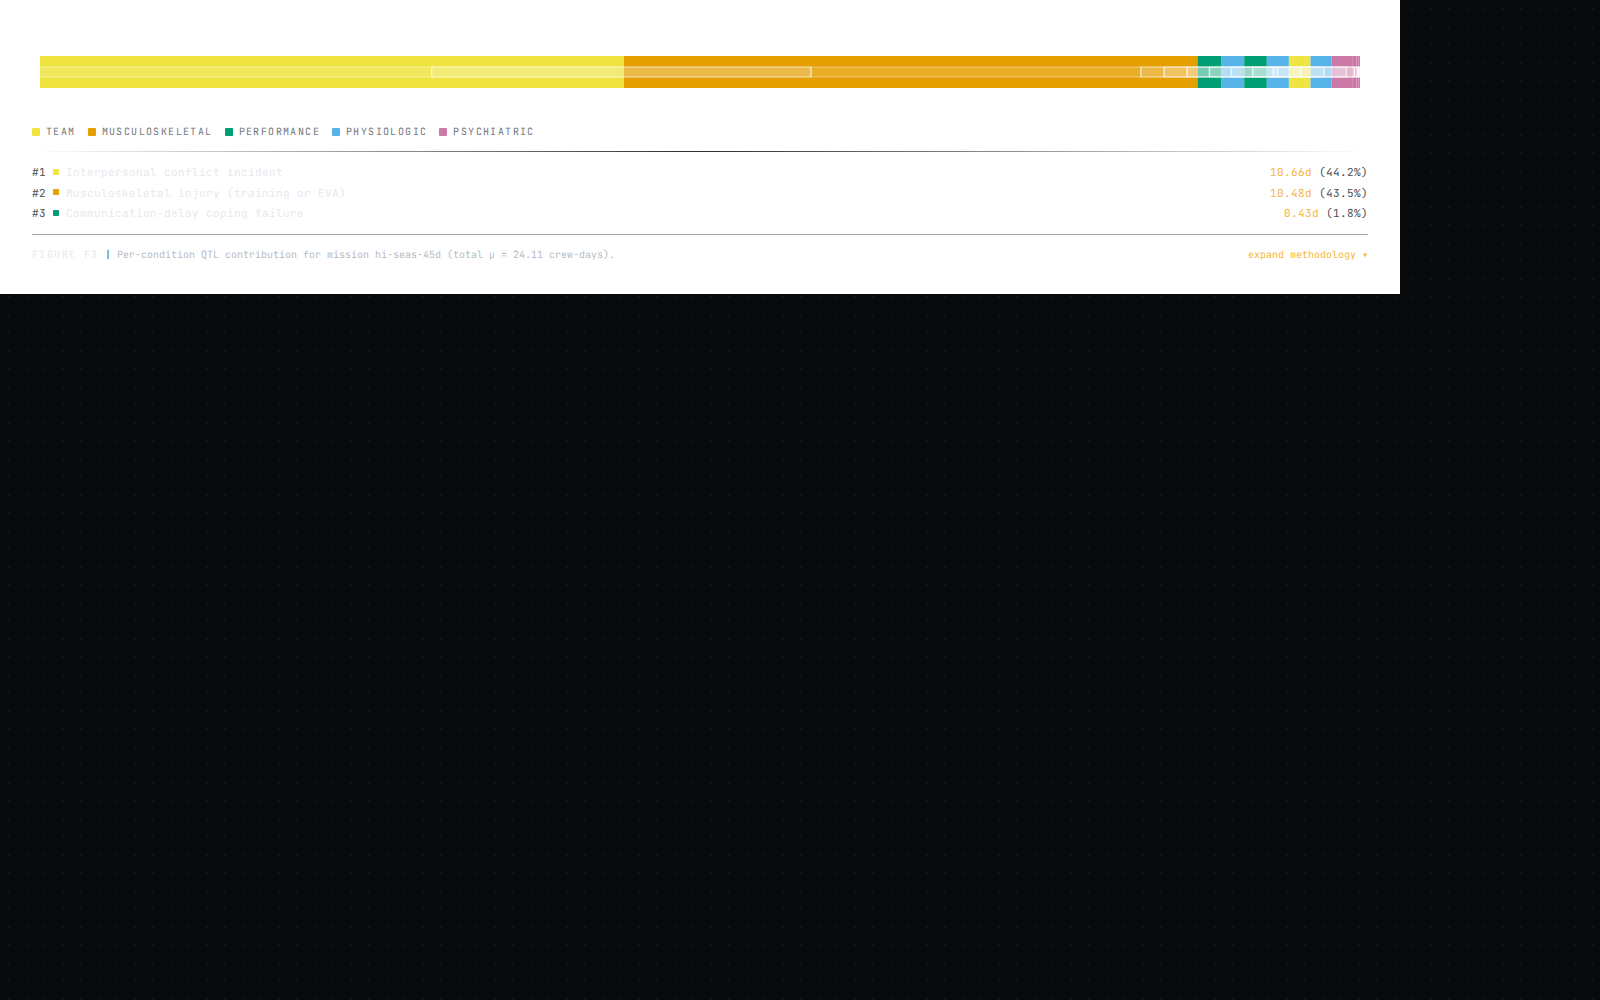
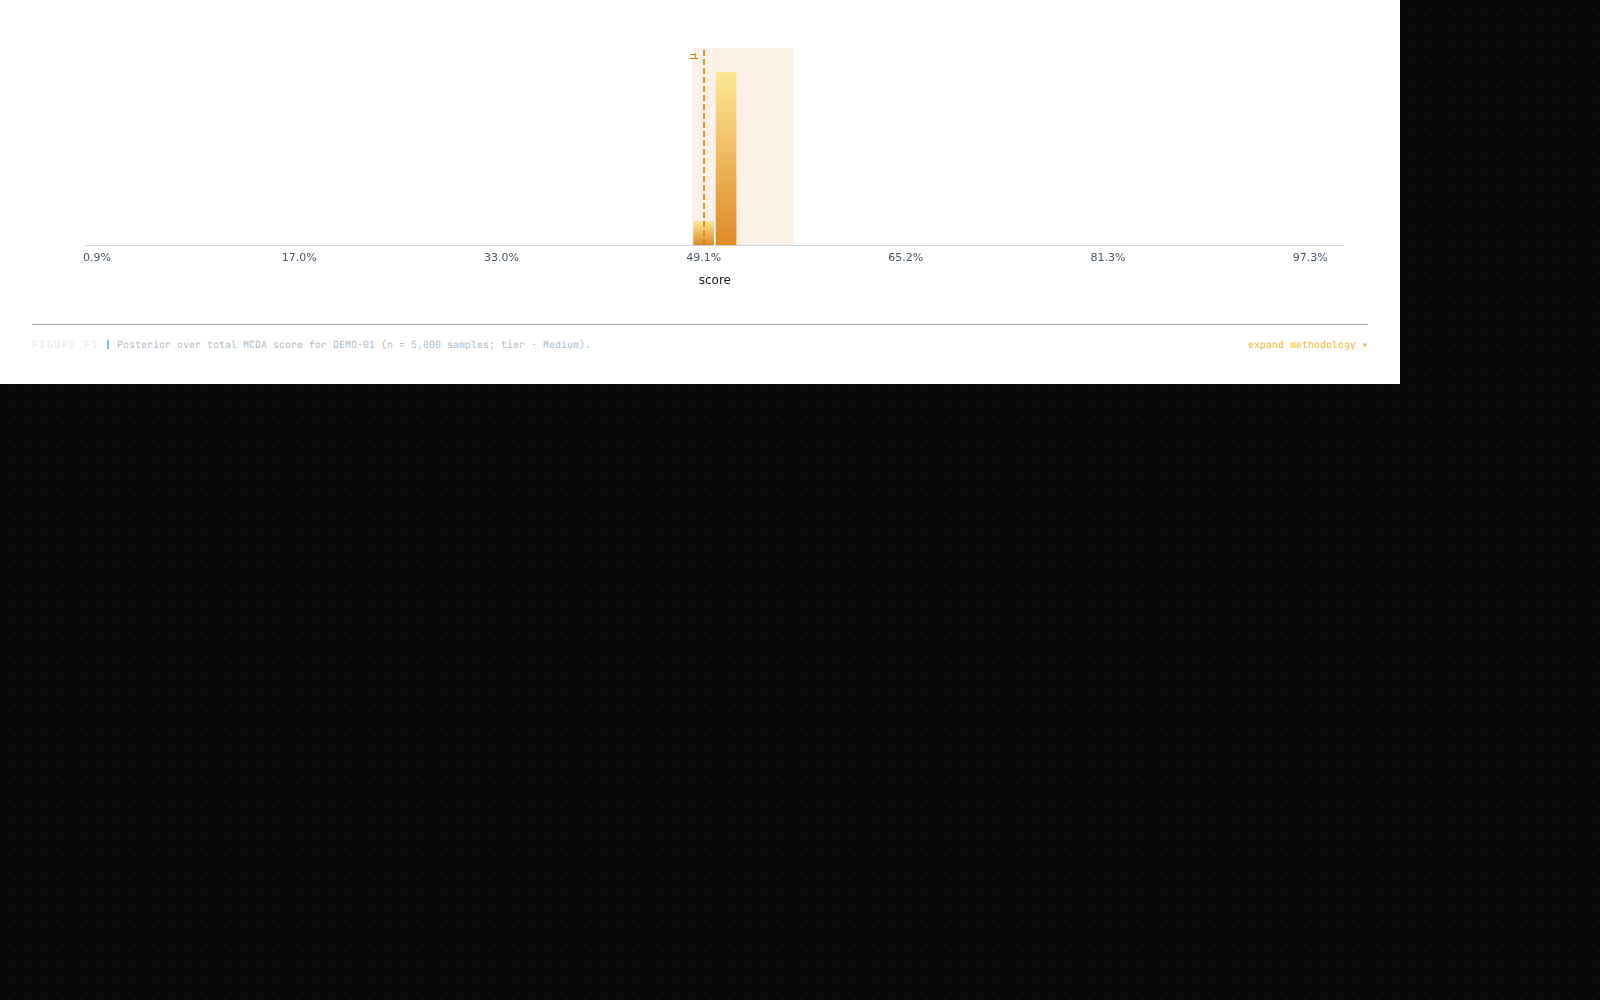
fix(paper): F3 fixture renders PosteriorPlot (Stage A), not ConditionContribution
Spec review of T10 caught that PaperF3 was wired to ConditionContribution
(Stage B per-condition QTL bar chart) but the manuscript plan defines F3
as the Stage A CHI posterior histogram (PosteriorPlot). Mismatch would
collide with F3's caption (T11) and §3.2 prose (T16). Swapped to
PosteriorPlot fed by paperMCDAPosterior() and re-ran the Playwright
snapshot.

diff --git a/src/ui/testing/TestFigureHost.tsx b/src/ui/testing/TestFigureHost.tsx
@@ -306,20 +306,18 @@ export function TestFigureHost({ figureId }: { figureId: string }) {
 function PaperF3() {
   const ref = useRef<HTMLDivElement>(null);
   useEChartsReady(ref);
-  const riskPost = paperRiskPosterior();
+  const posterior = paperMCDAPosterior();
   return (
     <div
       ref={ref}
       className="p-8 bg-white"
       style={{ width: 1400 }}
     >
-      <ConditionContribution
-        posterior={riskPost}
-        conditions={ANALOG_CONDITIONS}
-        trials={5_000}
+      <PosteriorPlot
+        posterior={posterior}
+        alias={PAPER_ALIAS}
         seed={PAPER_SEED}
-        missionId={PAPER_MISSION.id}
-        priorsVersion={SYNTHETIC_PRIORS.model_version}
+        accessTier={PAPER_TIER}
       />
     </div>
   );